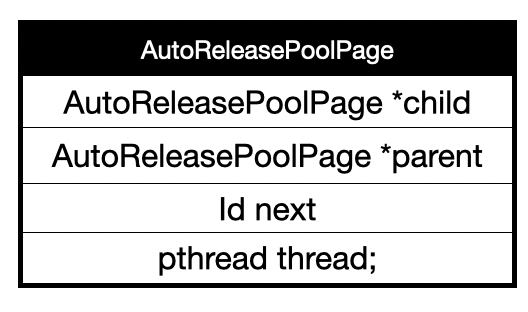
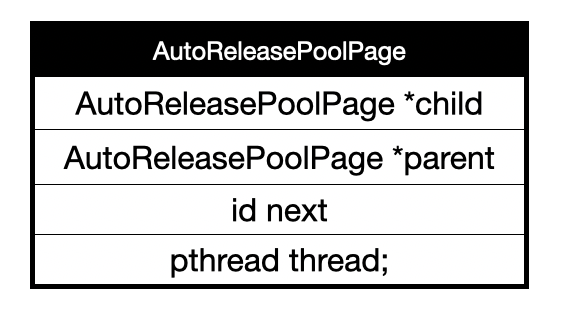
Fixed several error in obj-memo

Changed region(s): [[0.0303, 0.0577, 1.0, 0.9231], [0.2424, 0.1154, 0.7576, 0.2019]]

diff --git a/docs/_posts/2020-12-16-ios-2-objc-memo.md b/docs/_posts/2020-12-16-ios-2-objc-memo.md
@@ -146,18 +146,7 @@ We can see from the `AutoReleasePoolPage` simplified definition below, each corr
   <img src="/img/posts/post-iosinter-autoreleasepage.png" alt="autoreleasepool"/>
 </figure>
 
-But a thread can have many `AutoReleasePoolPage` like below:
-
-{% highlight objc %}
-
-```
-@autoreleasepool{
-	@autoreleasepool{
-	}
-}
-```
-
-{% endhighlight %}
+But in case one `AutoReleasePoolPage` can not fit all the autorelease objects, there would be more `AutoReleasePoolPage.
 
 ##### Follow up 3: When will object be released in AutoReleasePool?
 
